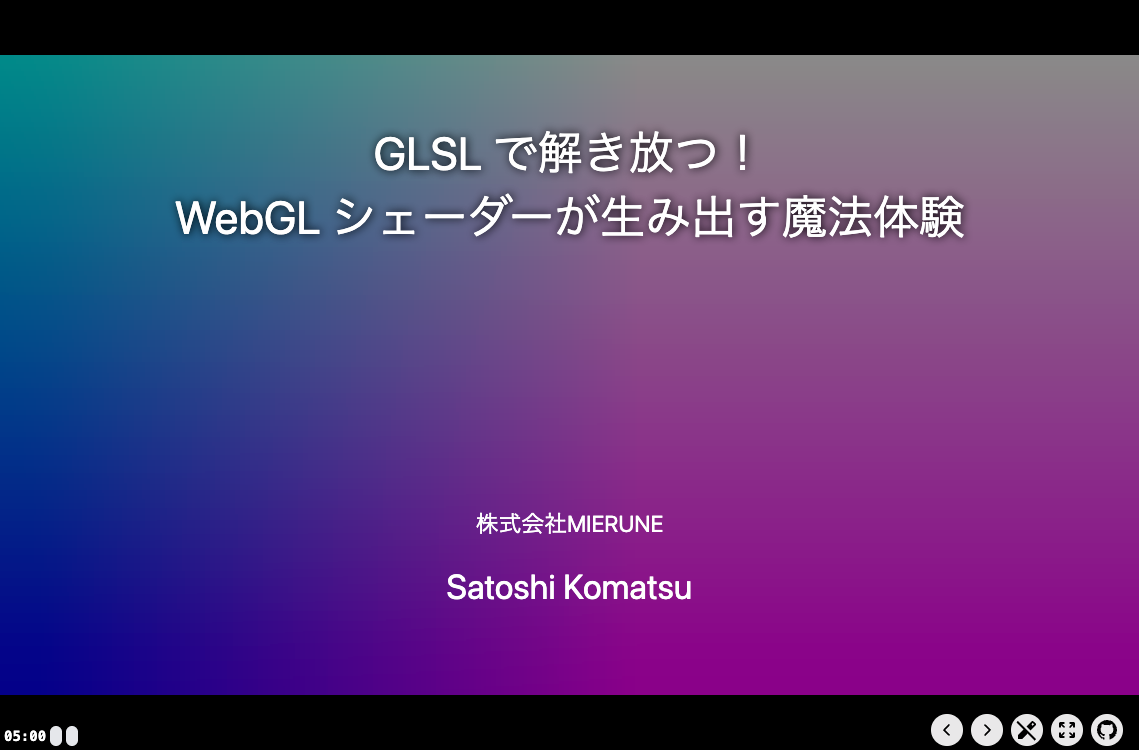
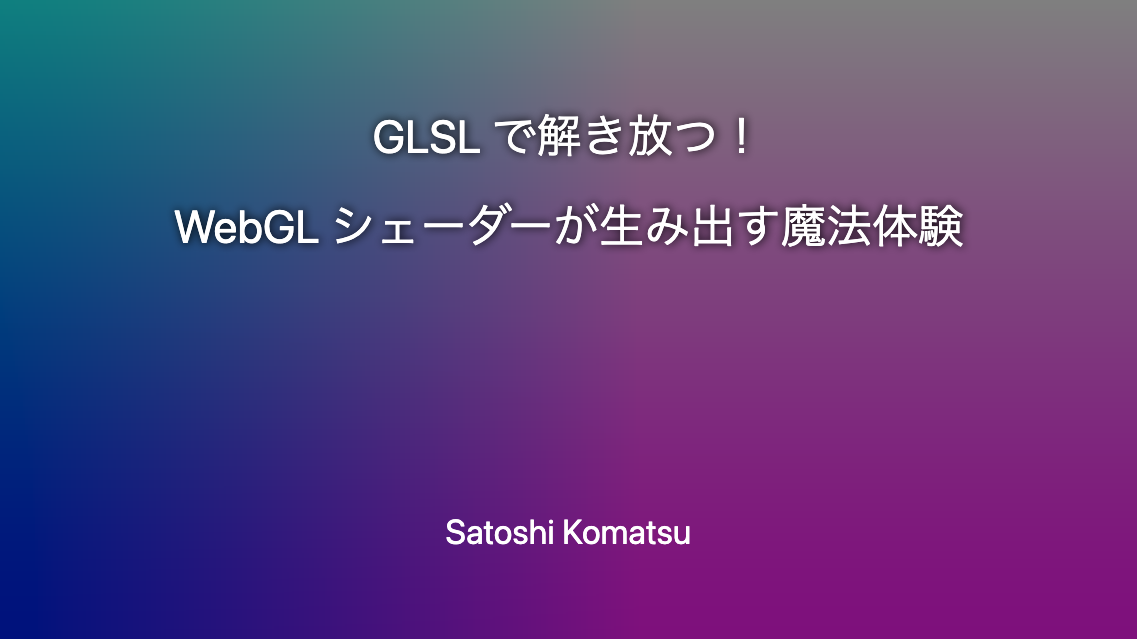
push

diff --git a/src/routes/+page.svelte b/src/routes/+page.svelte
@@ -11,15 +11,13 @@
 </script>
 
 <Overlay>
-	<span class="c-text-shadow absolute top-[10%] left-1/2 -translate-x-1/2 text-[200%] text-white"
+	<span class="c-text-shadow absolute top-[16%] left-1/2 -translate-x-1/2 text-[200%] text-white"
 		>GLSL で解き放つ！</span
 	>
-	<div class="c-text-shadow absolute top-[20%] flex w-full justify-center text-[200%] text-white">
+	<div class="c-text-shadow absolute top-[30%] flex w-full justify-center text-[200%] text-white">
 		<span>WebGL シェーダーが生み出す魔法体験</span>
 	</div>
-	<span class="absolute bottom-[24%] left-1/2 -translate-x-1/2 text-[100%] text-white"
-		>株式会社MIERUNE
-	</span>
+
 	<span class="absolute bottom-[13%] left-1/2 -translate-x-1/2 text-[150%] text-white"
 		>Satoshi Komatsu
 	</span>

diff --git a/README.md b/README.md
@@ -3,7 +3,6 @@
 「フロントエンドカンファレンス北海道 2025」で発表したスライドのリポジトリです。
 
 ![alt text](image.png)
-
 ![alt text](image-1.png)
 
 ### プロポーザル
